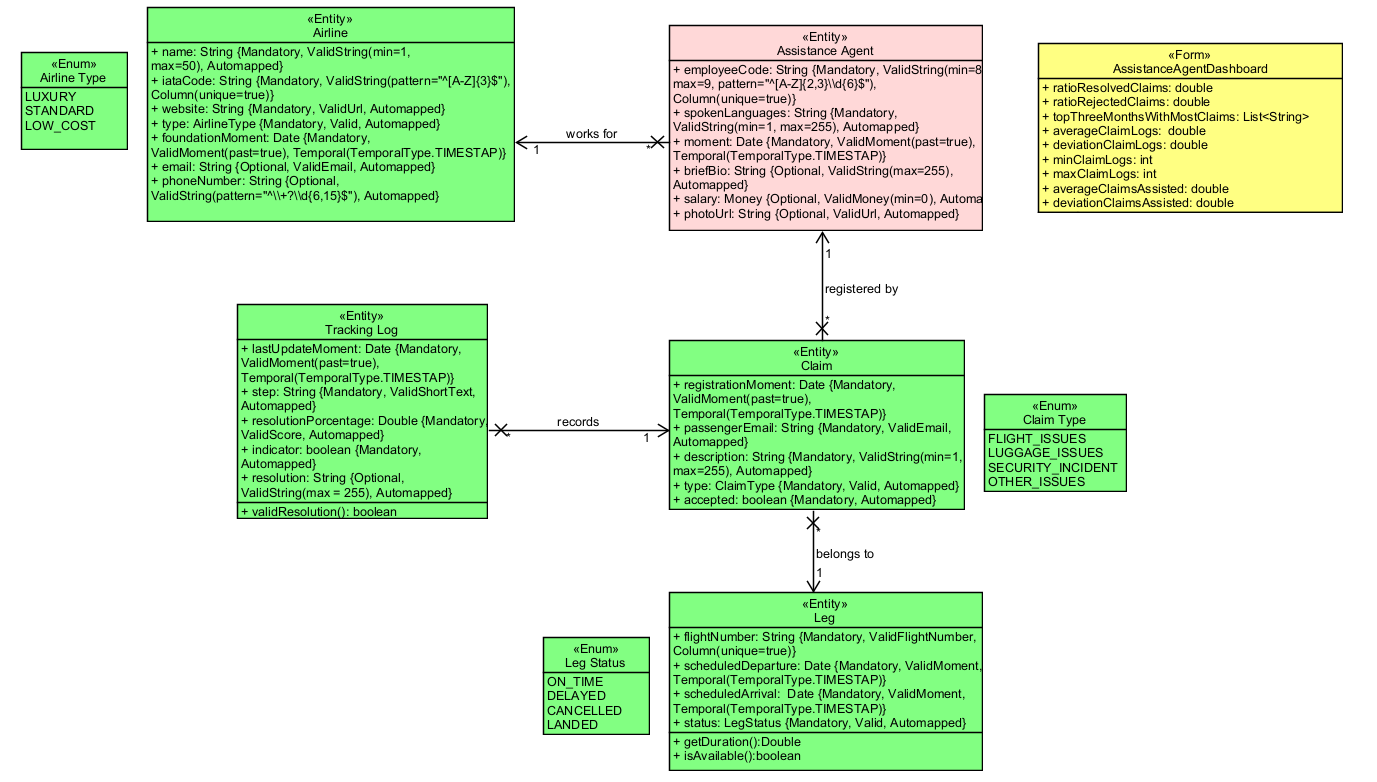
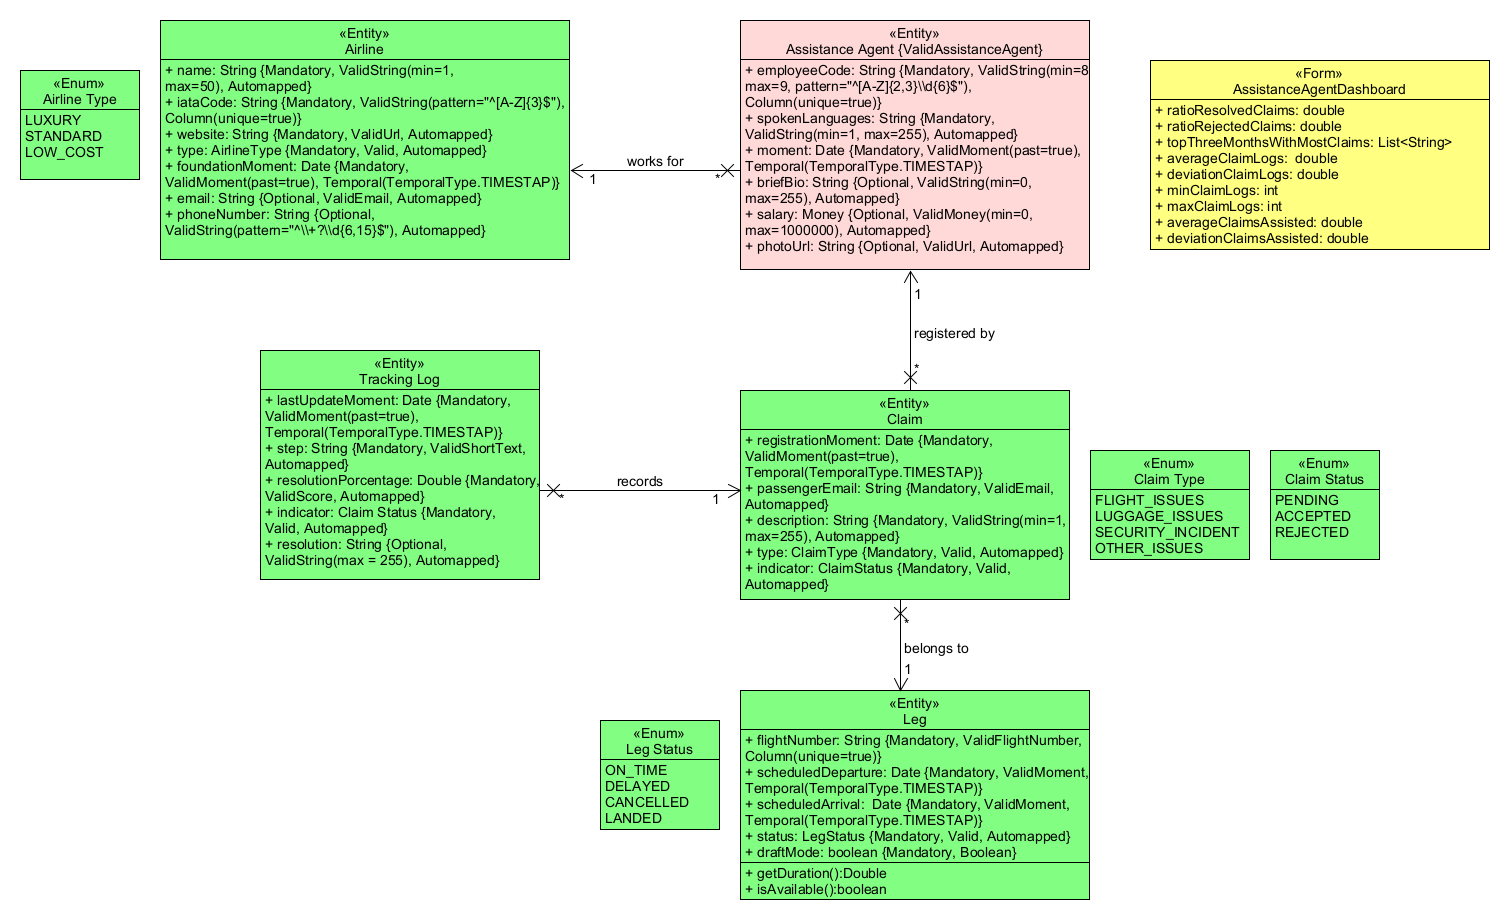
feat: Añadir validaciones para AssistanceAgent y retocar uml

Changed region(s): [[0.0, 0.0, 0.9993, 1.0]]

diff --git a/src/main/java/acme/constraints/AssistanceAgentValidator.java b/src/main/java/acme/constraints/AssistanceAgentValidator.java
@@ -1,0 +1,57 @@
+
+package acme.constraints;
+
+import javax.validation.ConstraintValidatorContext;
+
+import acme.client.components.validation.AbstractValidator;
+import acme.client.components.validation.Validator;
+import acme.realms.AssistanceAgent;
+
+@Validator
+public class AssistanceAgentValidator extends AbstractValidator<ValidAssistanceAgent, AssistanceAgent> {
+
+	// ConstraintValidator interface ------------------------------------------
+
+	@Override
+	protected void initialise(final ValidAssistanceAgent annotation) {
+		assert annotation != null;
+	}
+
+	@Override
+	public boolean isValid(final AssistanceAgent assistanceAgent, final ConstraintValidatorContext context) {
+		assert context != null;
+
+		boolean result;
+
+		if (assistanceAgent == null || assistanceAgent.getEmployeeCode() == null || assistanceAgent.getIdentity().getFullName() == null)
+			super.state(context, false, "*", "javax.validation.constraints.NotNull.message");
+		else {
+			String employeeCode = assistanceAgent.getEmployeeCode().toUpperCase();
+			String applicantName = assistanceAgent.getIdentity().getFullName().trim();
+
+			String initials = this.extractInitials(applicantName);
+
+			boolean validFormat = employeeCode.matches("^[A-Z]{2,3}\\d{6}$");
+			boolean initialsMatch = employeeCode.startsWith(initials);
+
+			super.state(context, validFormat, "employeeCode", "acme.validation.employeeCode.format.message");
+			super.state(context, initialsMatch, "employeeCode", "acme.validation.employeeCode.initials.message");
+		}
+
+		result = !super.hasErrors(context);
+		return result;
+	}
+
+	private String extractInitials(final String fullName) {
+		String cleanedFullName = fullName.replace(",", "").trim();
+
+		String[] parts = cleanedFullName.split("\\s+");
+		StringBuilder initials = new StringBuilder();
+
+		for (String part : parts)
+			if (!part.isEmpty() && initials.length() < 3)
+				initials.append(part.charAt(0));
+
+		return initials.toString().toUpperCase();
+	}
+}

diff --git a/src/main/java/acme/realms/AssistanceAgent.java b/src/main/java/acme/realms/AssistanceAgent.java
@@ -19,6 +19,7 @@ import acme.client.components.validation.ValidMoment;
 import acme.client.components.validation.ValidMoney;
 import acme.client.components.validation.ValidString;
 import acme.client.components.validation.ValidUrl;
+import acme.constraints.ValidAssistanceAgent;
 import acme.entities.Group.Airline;
 import lombok.Getter;
 import lombok.Setter;
@@ -26,6 +27,7 @@ import lombok.Setter;
 @Entity
 @Getter
 @Setter
+@ValidAssistanceAgent
 public class AssistanceAgent extends AbstractRole {
 
 	// Serialisation identifier -----------------------------------------------
@@ -51,7 +53,7 @@ public class AssistanceAgent extends AbstractRole {
 	private Date				moment;
 
 	@Optional
-	@ValidString(max = 255)
+	@ValidString(min = 0, max = 255)
 	@Automapped
 	private String				briefBio;
 

diff --git a/src/main/java/acme/constraints/ValidAssistanceAgent.java b/src/main/java/acme/constraints/ValidAssistanceAgent.java
@@ -1,0 +1,24 @@
+
+package acme.constraints;
+
+import java.lang.annotation.ElementType;
+import java.lang.annotation.Retention;
+import java.lang.annotation.RetentionPolicy;
+import java.lang.annotation.Target;
+
+import javax.validation.Constraint;
+import javax.validation.Payload;
+
+@Target(ElementType.TYPE)
+@Retention(RetentionPolicy.RUNTIME)
+@Constraint(validatedBy = AssistanceAgentValidator.class)
+public @interface ValidAssistanceAgent {
+
+	// Standard validation properties -----------------------------------------
+
+	String message() default "";
+
+	Class<?>[] groups() default {};
+	Class<? extends Payload>[] payload() default {};
+
+}
